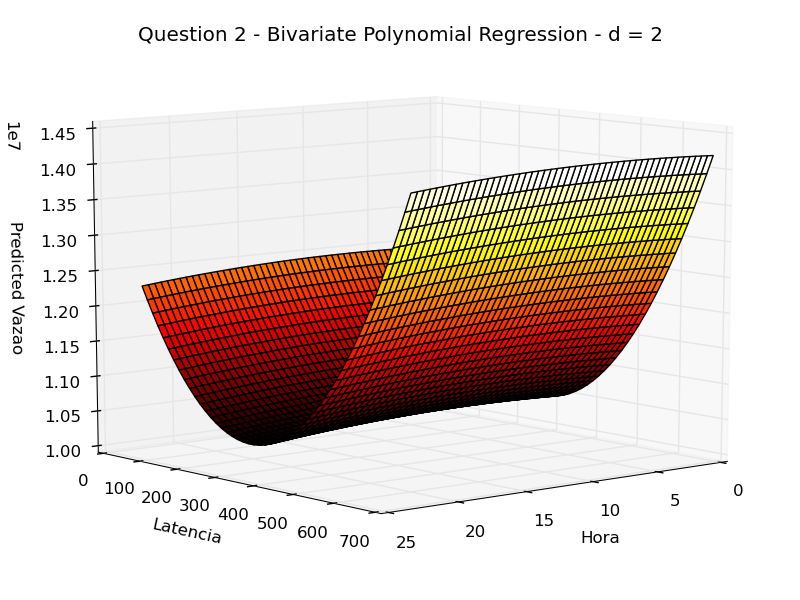
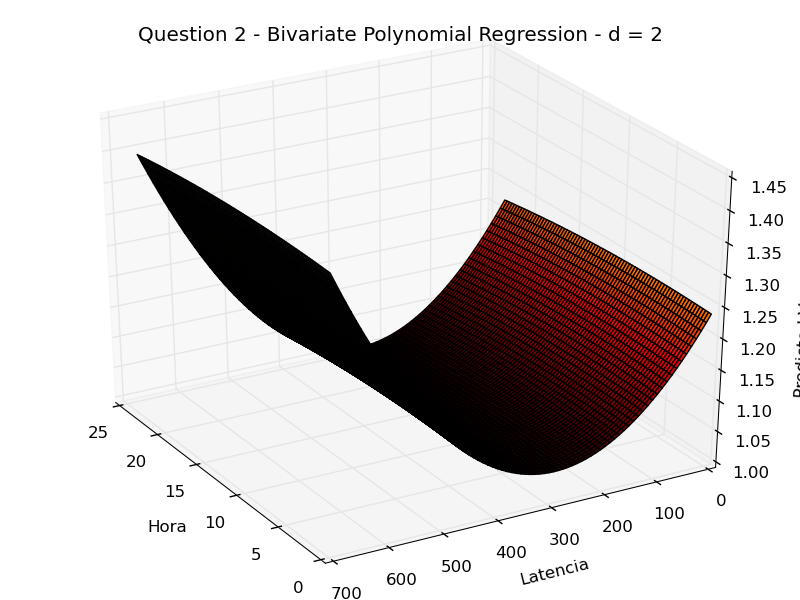
Done question 2, missing NLL for now

diff --git a/Lista2/question2/question2.py b/Lista2/question2/question2.py
@@ -1,3 +1,4 @@
+import sys
 import numpy
 import pandas
 import pylab
@@ -34,16 +35,18 @@ for d in dList:
 		formulaString += ' + I('+hora+' ** '+str(expo)+')'
 		formulaString += ' + I('+latencia+' ** '+str(expo)+')'
 
-	poly_2 = smFormula.ols(formula=formulaString, data=data).fit()
+	poly_2 = smFormula.gls(formula=formulaString, data=data).fit()
+	
+	
+	sys.stdout = open("summaryD"+str(d)+".txt", 'w')
+	print poly_2.summary()
 	
 	figure = pylab.figure()
 	axes = Axes3D(figure)
-	X = numpy.arange(data[['Col3']].min(), data[['Col3']].max(), data[['Col3']].max()/50)
-	Y = numpy.arange(data[['Col6']].min(), data[['Col6']].max(), data[['Col6']].max()/50)
+	X = numpy.arange(data[['Col3']].min(), data[['Col3']].max(), (data[['Col3']].max()-data[['Col3']].min())/80)
+	Y = numpy.arange(data[['Col6']].min(), data[['Col6']].max(), (data[['Col6']].max()-data[['Col6']].min())/80)
 	X, Y = numpy.meshgrid(X,Y)
-	Z = poly_2.params[0]
-	
-	print poly_2.params
+	Z = numpy.array([[poly_2.params[0]]*len(X)]*len(Y))
 	
 	for expo in range(1,d+1):
 		Z += poly_2.params[(2*expo)-1]*(X**expo) + poly_2.params[2*expo]*(Y**expo)
@@ -54,6 +57,6 @@ for d in dList:
 	axes.set_ylabel('Latencia')
 	axes.set_zlabel('Predicted Vazao')
 	
-	axes.view_init(elev=10., azim=50)
+	axes.view_init(elev=30., azim=150)
 	pylab.savefig("d"+str(d)+".png")
 	
